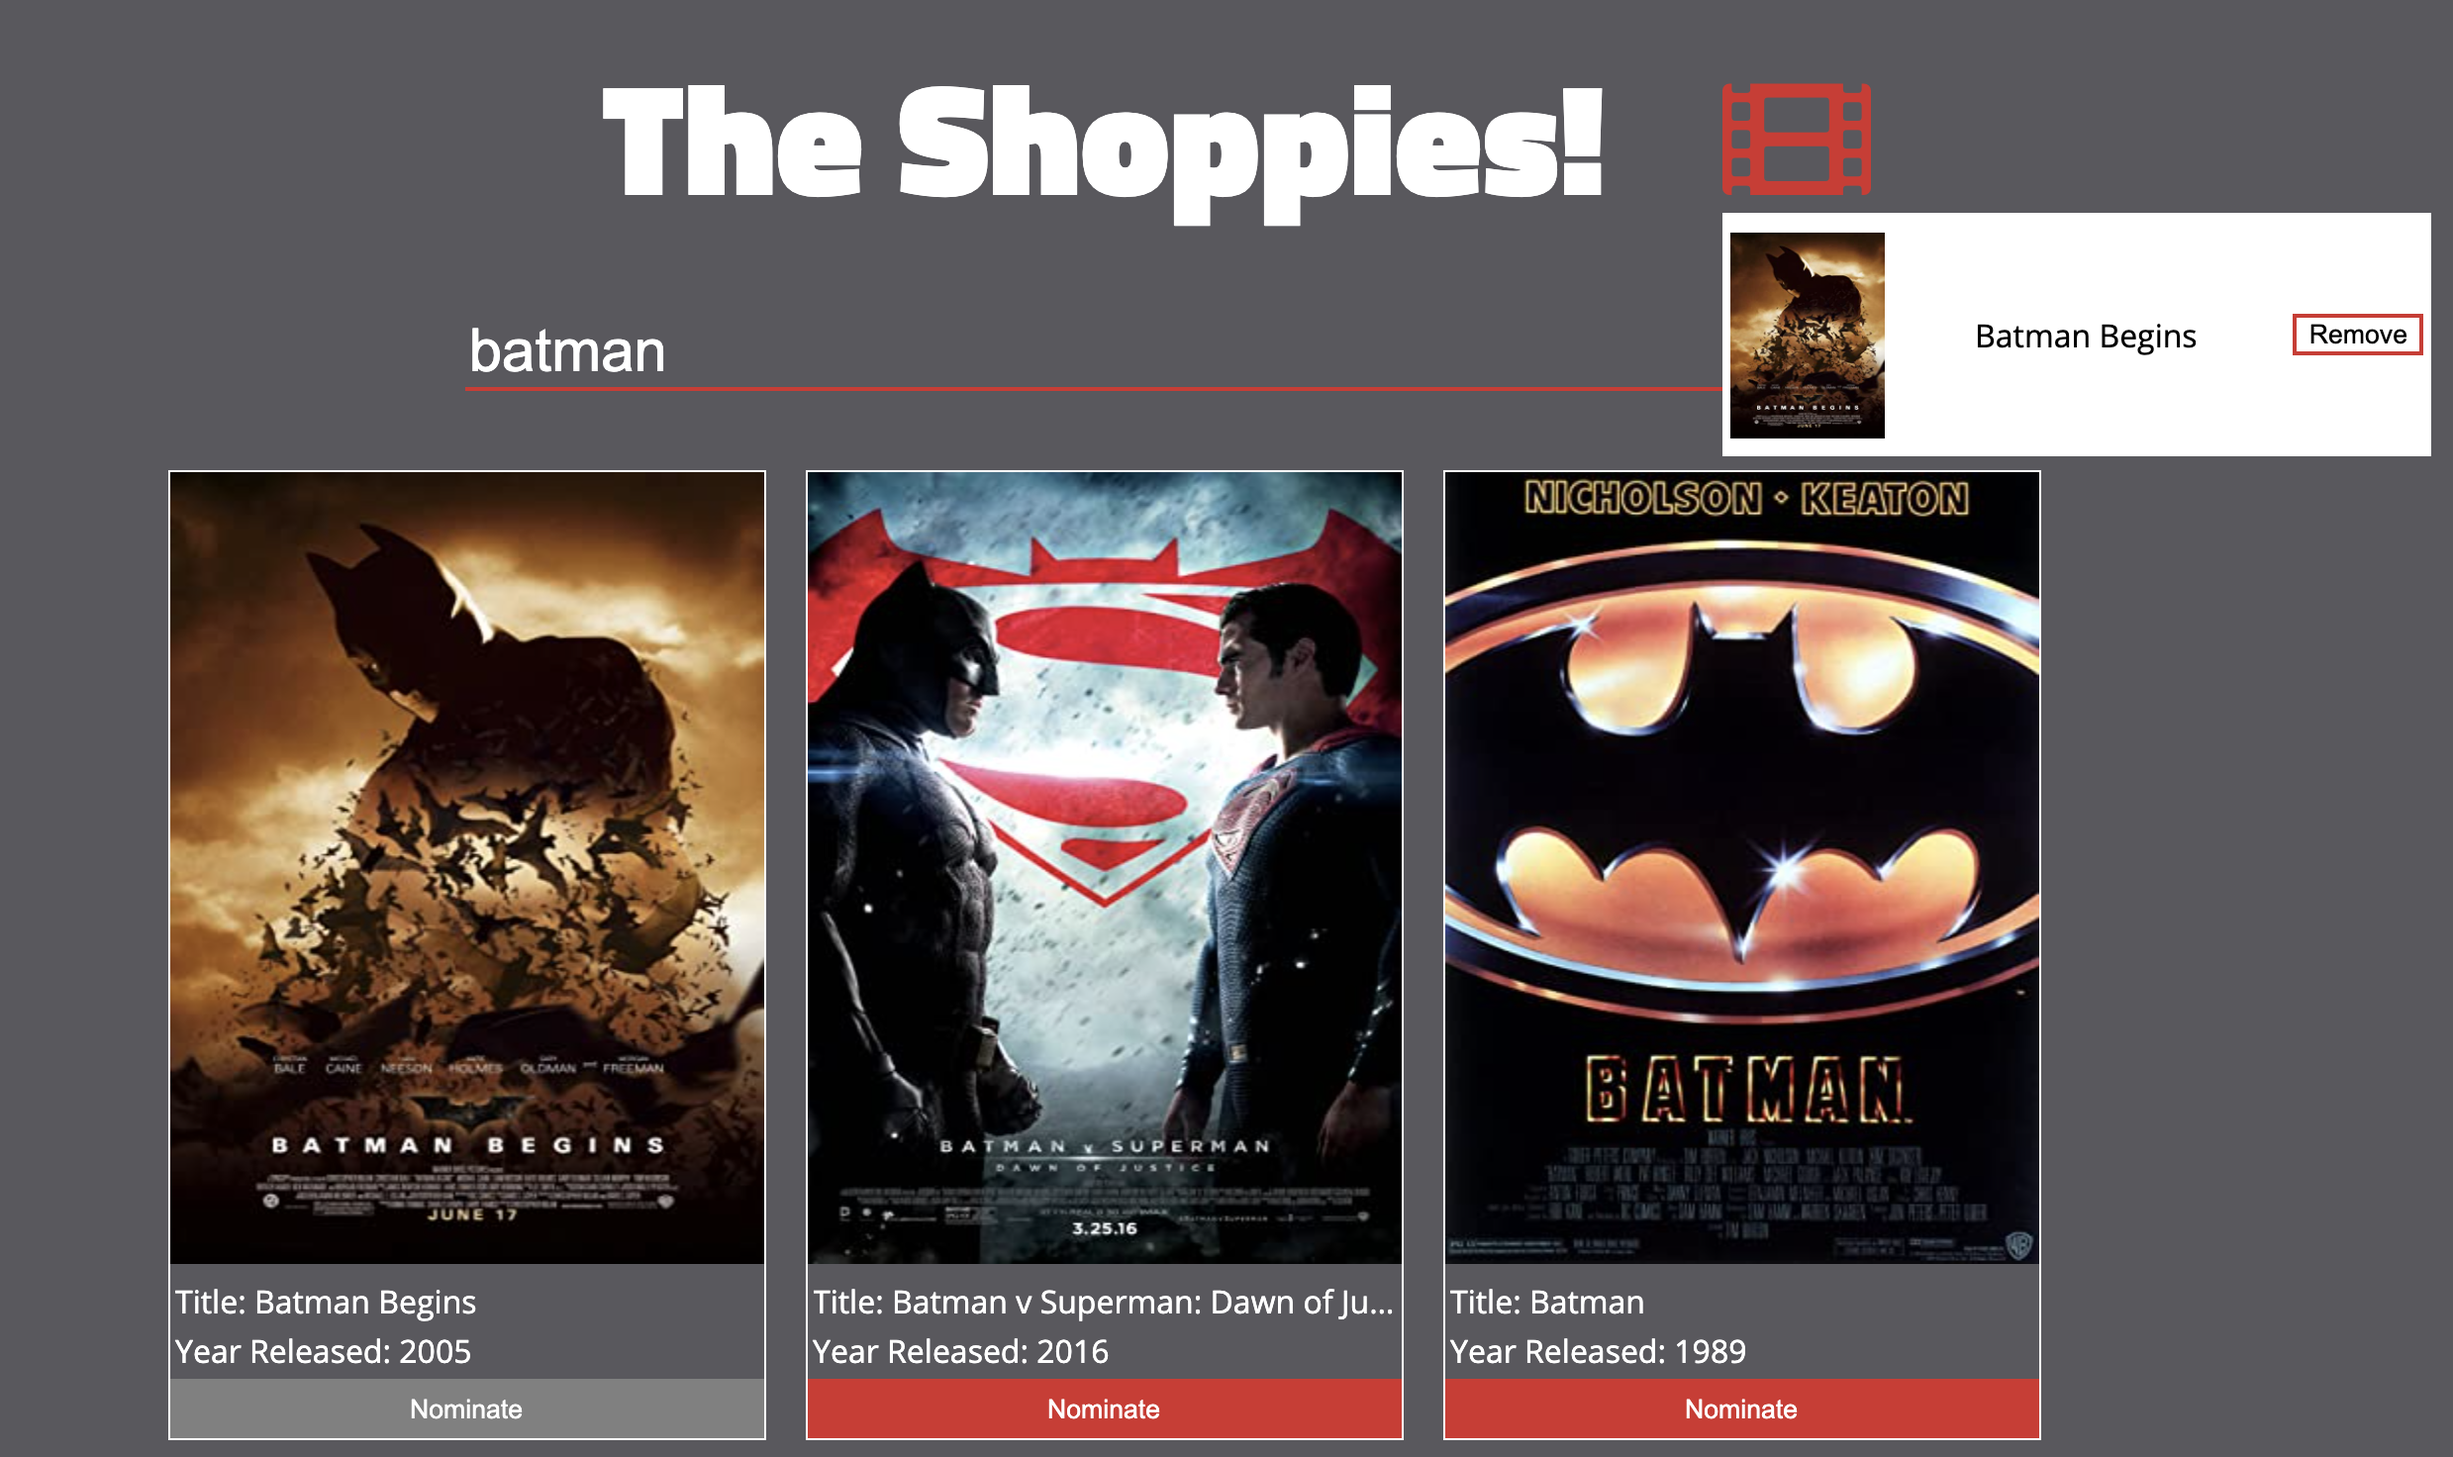
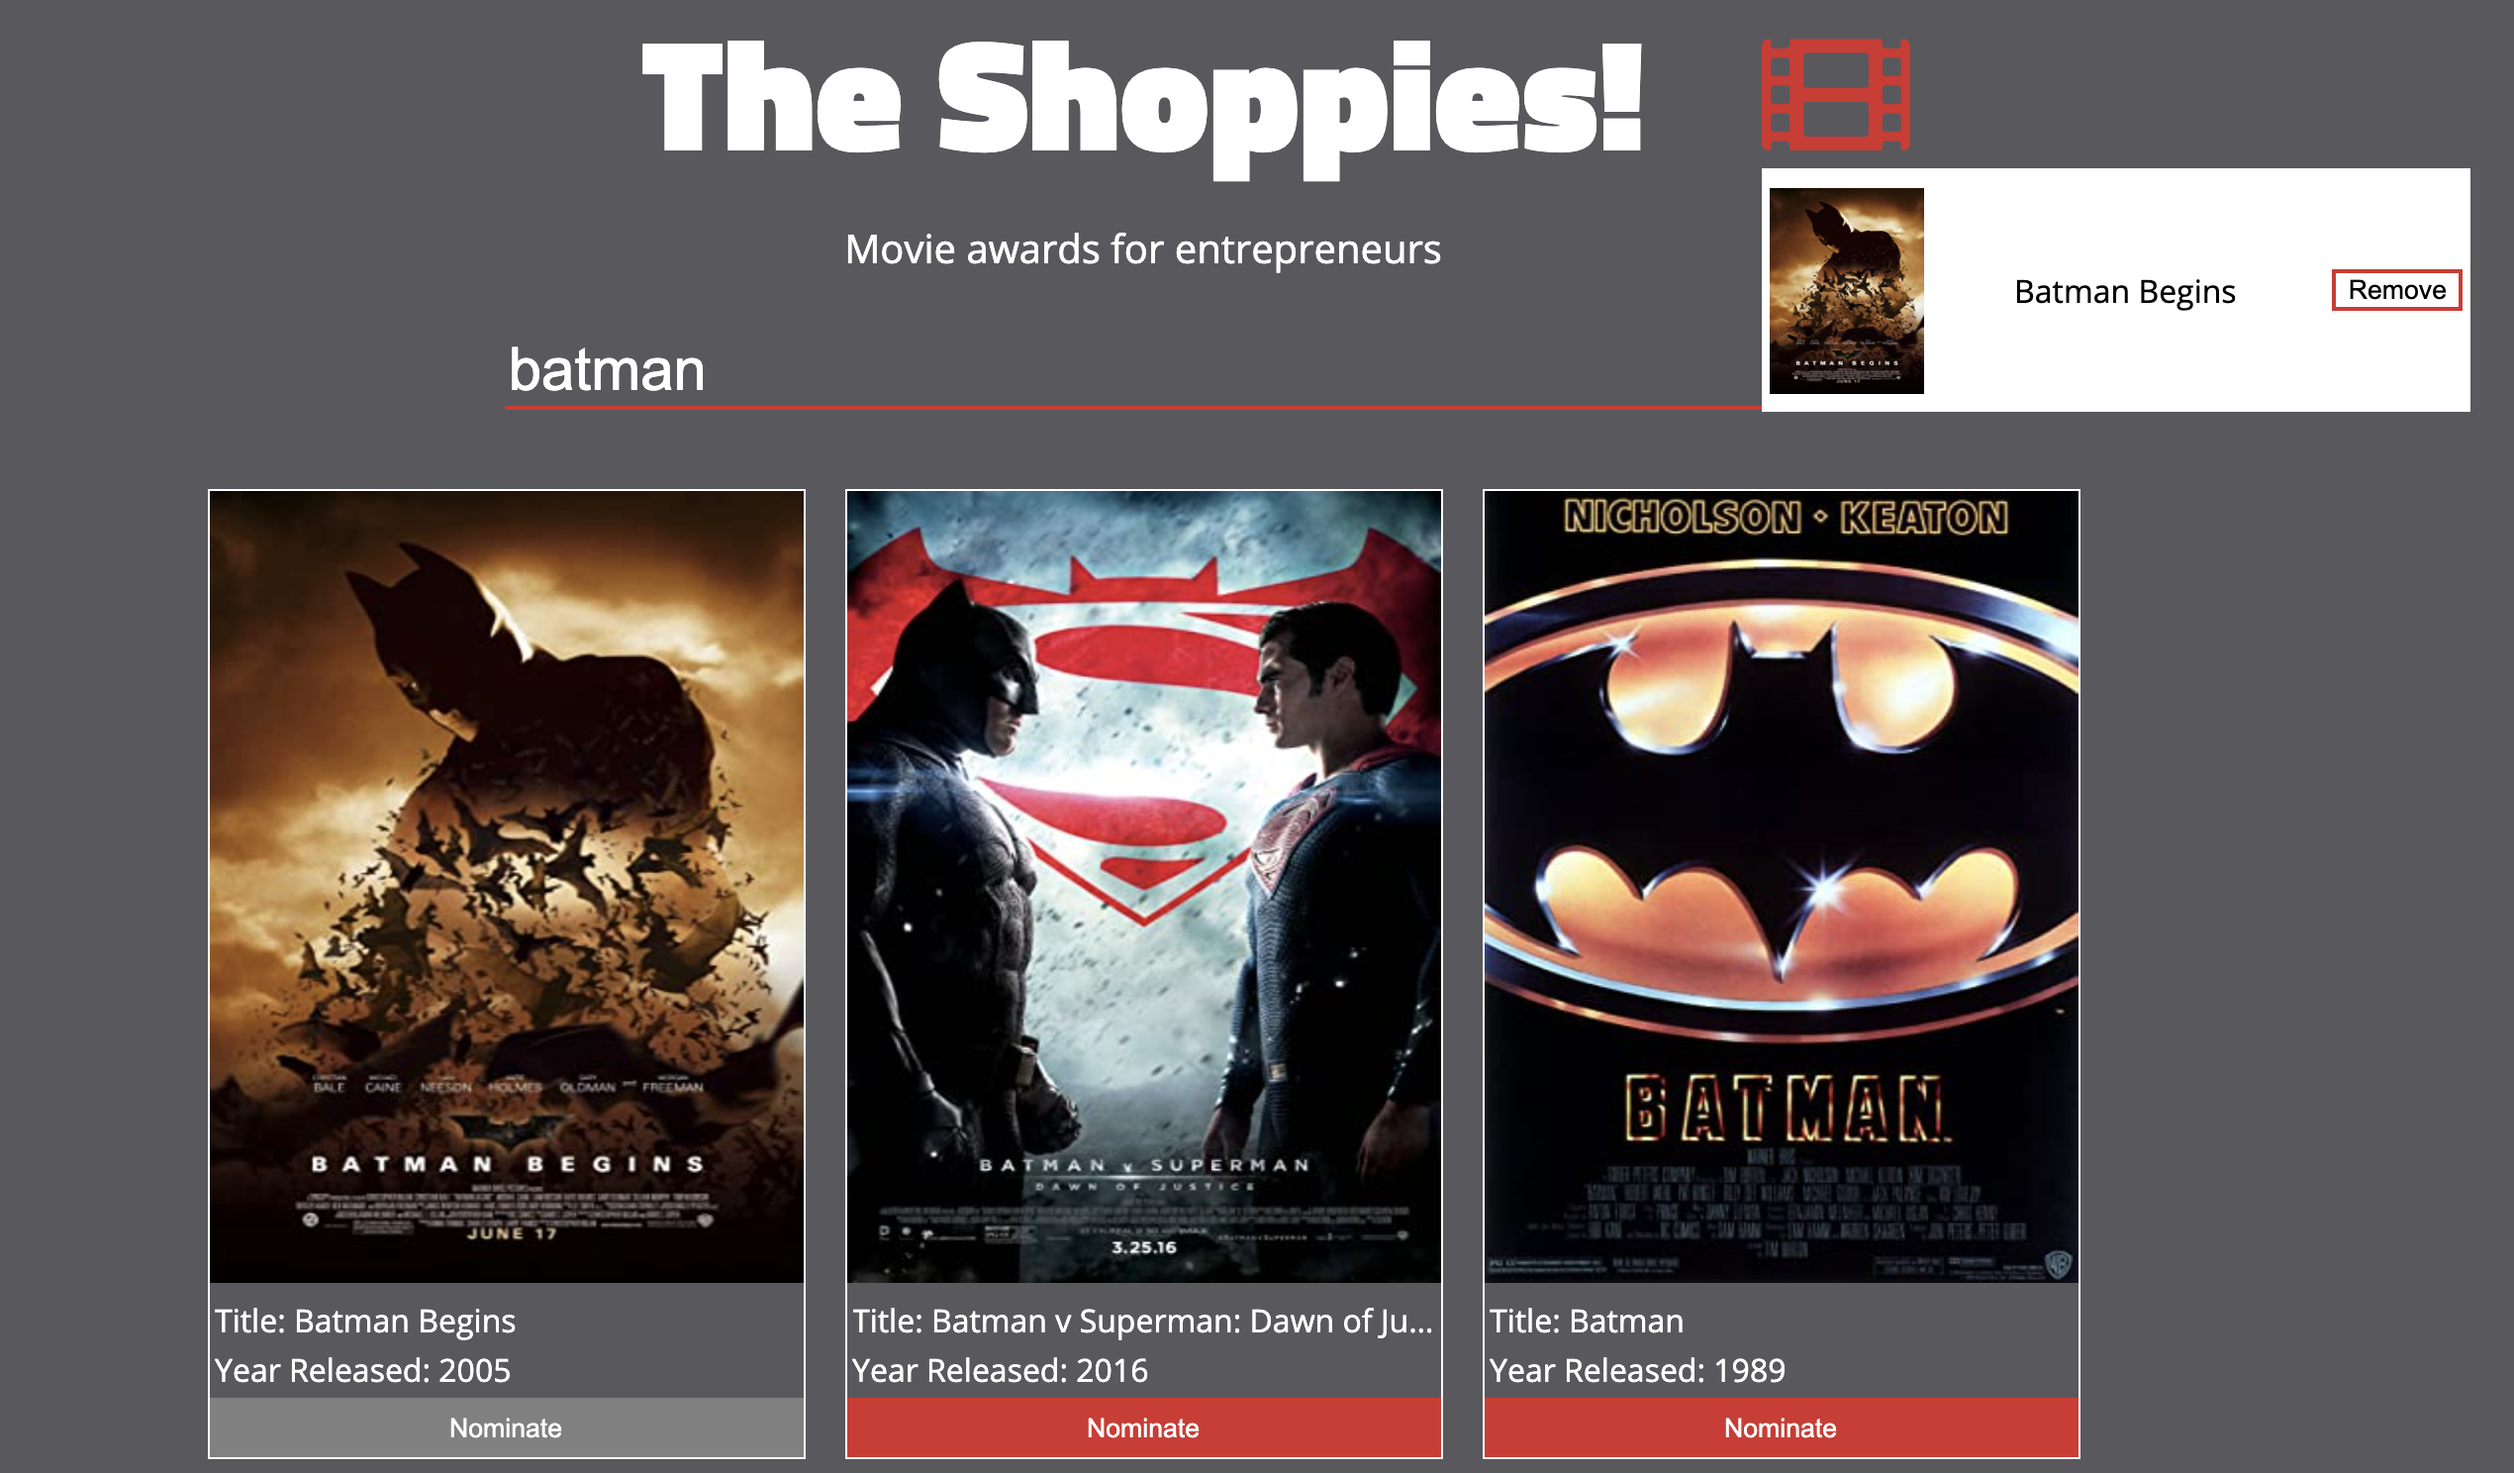
re upload pictures

Changed region(s): [[0.0621, 0.0, 0.9944, 1.0], [0.2486, 0.0312, 0.6525, 0.1875], [0.8079, 0.1875, 0.9011, 0.25]]

diff --git a/src/Search.css b/src/Search.css
@@ -117,6 +117,7 @@
   height: 100px;
   font-size: 80px;
   margin-top: 100px;
+  color: white;
 }
 
 .arrow {

diff --git a/README.md b/README.md
@@ -2,19 +2,17 @@
 
 The Shoppies is a SPA where users can search for movies using the OMDB Api and select their nominees for best film! This webapp was built as front end challenege for Shopify Summer 2021 interships.
 
-### P1
-![""]()
-
-### P2
-![""]()
-
-### P3
-![""]()
-
-
-## Live
-
 This application can be view at https://omdb-nominee.herokuapp.com/
+
+### Landing page
+!["landing"]()
+
+### Search, results and nominees
+!["search"]()
+
+### Banner
+!["banner"]()
+
 
 ## Dependencies
 
